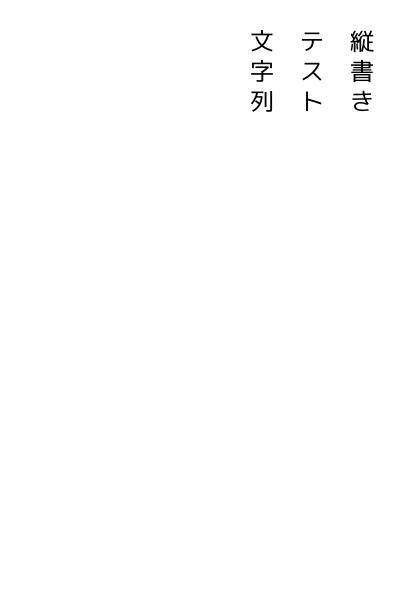
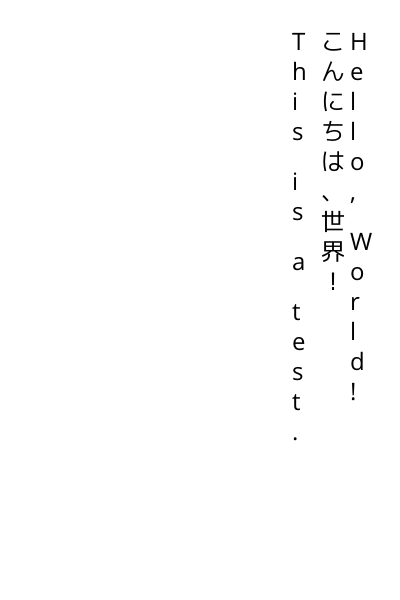
VerticalText fix

diff --git a/internal/synthesic/test4.go b/internal/synthesic/test4.go
@@ -61,6 +61,11 @@ func drawSimpleVerticalText(img *image.RGBA, face font.Face, text string, width,
 		Face: face,
 	}
 
+	// フォントメトリクスを取得して行間を自動計算
+	metrics := face.Metrics()
+	charWidth := metrics.Height.Ceil() // 縦書きでは高さが幅になる
+	lineSpacing := charWidth - 7       // 文字幅 - 5px行間
+
 	// 行に分割
 	lines := strings.Split(text, "\n")
 
@@ -94,8 +99,8 @@ func drawSimpleVerticalText(img *image.RGBA, face font.Face, text string, width,
 			}
 		}
 
-		// 次の行へ移動（左へ）
-		currentX -= 50
+		// 次の行へ移動（左へ）- 文字幅 + 10px行間
+		currentX -= lineSpacing
 
 		// 左端に達したら終了
 		if currentX < 50 {
@@ -122,9 +127,9 @@ func savePNG(img image.Image, outputPath string) error {
 
 // TestSimpleVerticalText シンプルな縦書きテストの実行
 func TestSimpleVerticalText() {
-	text := `縦書き
-テスト
-文字列`
+	text := `Hello, World!
+こんにちは、世界！
+This is a test.`
 
 	err := CreateVerticalTextImage(text, "simple_vertical.png")
 	if err != nil {
